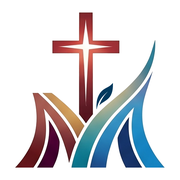
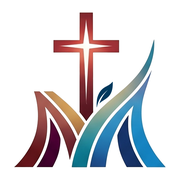
새 로고로 교체 (심볼·아이콘·교회소개 로고·공유 그림)
Claude-Session: https://claude.ai/code/session_01XdM4BBDA2kUD7tYbW4mUPe

diff --git a/index.html b/index.html
@@ -11,23 +11,23 @@
 <meta name="robots" content="index,follow,max-image-preview:large">
 <link rel="canonical" href="https://midbarchurch.co.kr/">
 <meta name="theme-color" content="#191B16">
-<link rel="icon" type="image/png" sizes="32x32" href="favicon-32.png">
-<link rel="icon" type="image/png" sizes="192x192" href="icon-192.png">
-<link rel="apple-touch-icon" href="apple-touch-icon.png">
+<link rel="icon" type="image/png" sizes="32x32" href="favicon-32.png?v=3">
+<link rel="icon" type="image/png" sizes="192x192" href="icon-192.png?v=3">
+<link rel="apple-touch-icon" href="apple-touch-icon.png?v=3">
 <meta property="og:type" content="website">
 <meta property="og:site_name" content="광야교회">
 <meta property="og:locale" content="ko_KR">
 <meta property="og:url" content="https://midbarchurch.co.kr/">
 <meta property="og:title" content="광야교회 미드바르 · 광야에 길을, 사막에 강을">
 <meta property="og:description" content="일산 풍동 광야교회 · 주일예배 오후 5시 · 금요기도회 오후 8시 30분 · 숲속마을1로 26 다인타운 4층">
-<meta property="og:image" content="https://midbarchurch.co.kr/og-image.jpg">
+<meta property="og:image" content="https://midbarchurch.co.kr/og-image.jpg?v=3">
 <meta property="og:image:width" content="1200">
 <meta property="og:image:height" content="630">
 <meta property="og:image:alt" content="광야교회 - 광야에 길을, 사막에 강을 (이사야 43:19)">
 <meta name="twitter:card" content="summary_large_image">
 <meta name="twitter:title" content="광야교회 미드바르">
 <meta name="twitter:description" content="일산 풍동 광야교회 · 주일예배 오후 5시 · 금요기도회 오후 8시 30분">
-<meta name="twitter:image" content="https://midbarchurch.co.kr/og-image.jpg">
+<meta name="twitter:image" content="https://midbarchurch.co.kr/og-image.jpg?v=3">
 <meta name="geo.region" content="KR-41">
 <meta name="geo.placename" content="경기도 고양시 일산동구 풍동">
 <meta name="geo.position" content="37.6634723;126.7990264">
@@ -49,7 +49,7 @@
    "description": "하나님을 가장 깊이 만나는 곳, 광야교회입니다. 히브리어로 광야는 '미드바르'이며 '말씀(다바르)'에서 비롯된 말입니다. 2026년 9월 18일 개척 준비기도회로 첫 현장 예배를 드렸습니다.",
    "url": "https://midbarchurch.co.kr/",
    "logo": "https://midbarchurch.co.kr/logo-mark-512.png",
-   "image": "https://midbarchurch.co.kr/og-image.jpg",
+   "image": "https://midbarchurch.co.kr/og-image.jpg?v=3",
    "address": {
     "@type": "PostalAddress",
     "streetAddress": "숲속마을1로 26 다인타운 4층",
@@ -649,7 +649,7 @@ footer .wrap{padding-block:56px 48px}
 
 <header id="hd" class="enter">
   <div class="wrap">
-    <a class="logo" href="#home" aria-label="광야교회 홈"><span class="mk"><img src="logo-mark.png" alt=""></span><b>광야교회</b><span class="en"><span>MIDBAR</span><span>CHURCH</span></span></a>
+    <a class="logo" href="#home" aria-label="광야교회 홈"><span class="mk"><img src="logo-mark.png?v=3" alt=""></span><b>광야교회</b><span class="en"><span>MIDBAR</span><span>CHURCH</span></span></a>
     <ul class="gnb" id="gnb">
       <li data-p="about"><a href="#about">교회소개</a>
         <div class="dep2"><a href="#about/greet">인사말</a><a href="#about/name">교회 이름의 뜻</a><a href="#about/mission">사명선언문</a><a href="#about/vision">MIDBAR VISION</a><a href="#about/logo">광야교회 로고</a><a href="#about/history">걸어온 길</a></div></li>
@@ -824,7 +824,7 @@ footer .wrap{padding-block:56px 48px}
     <div id="sec-about-logo" class="block block-grid">
       <div><span class="k">로고</span><h2>광야교회 로고</h2></div>
       <div class="prose">
-        <figure class="logo-fig"><img src="about/logo-full.png" alt="대한예수교장로회 광야교회 MIDBAR CHURCH 로고" loading="lazy"></figure>
+        <figure class="logo-fig"><img src="about/logo-full.png?v=3" alt="대한예수교장로회 광야교회 MIDBAR CHURCH 로고" loading="lazy"></figure>
         <p>Midbar Church의 M자를 형상화 했으며, 광야에 길을 만드시고(M의 왼쪽 붉은색 부분), 사막에 강을 만드시며(M의 오른쪽 푸른색 부분) 새 일을 행하실 하나님께서 광야교회를 불기둥(M의 왼쪽)과 구름기둥(M의 오른쪽)으로 보호해 주셔서 십자가의 은혜로 구원의 싹을 틔워가는 교회를 의미합니다.</p>
       </div>
     </div>
@@ -998,7 +998,7 @@ footer .wrap{padding-block:56px 48px}
 <footer>
   <div class="wrap">
     <div class="f-top">
-      <div class="f-brand"><span class="mk"><img src="logo-mark.png" alt="광야교회 로고"></span><div class="f-word">광야교회</div></div>
+      <div class="f-brand"><span class="mk"><img src="logo-mark.png?v=3" alt="광야교회 로고"></span><div class="f-word">광야교회</div></div>
       <div class="f-links"><a href="#about">교회소개</a><a href="#worship">예배안내</a><a href="#word">말씀</a><a href="#bulletin">주보</a><a href="#together">함께하기</a><a href="https://cafe.naver.com/midbarchurch" target="_blank" rel="noopener">네이버 카페 ↗</a><a href="https://www.youtube.com/@midbar-church-smilepastor" target="_blank" rel="noopener">유튜브 ↗</a></div>
     </div>
     <div class="f-bot">

diff --git a/admin.html b/admin.html
@@ -382,7 +382,7 @@ textarea.inp{min-height:130px;resize:vertical;line-height:1.6}
 <!-- ================= 로그인 ================= -->
 <div class="login" id="login" hidden>
   <div class="login-card">
-    <div class="mk"><img src="logo-mark.png" alt=""></div>
+    <div class="mk"><img src="logo-mark.png?v=3" alt=""></div>
     <h1>광야교회 관리자</h1>
     <p>비밀번호를 넣고 로그인하세요.</p>
     <form id="loginForm">
@@ -398,7 +398,7 @@ textarea.inp{min-height:130px;resize:vertical;line-height:1.6}
 <div class="app" id="app" hidden>
   <aside class="side">
     <div class="brand-row">
-      <div class="brand"><span class="mk"><img src="logo-mark.png" alt=""></span><span><b>광야교회 관리</b><small id="modeLabel">홈페이지 관리자</small></span></div>
+      <div class="brand"><span class="mk"><img src="logo-mark.png?v=3" alt=""></span><span><b>광야교회 관리</b><small id="modeLabel">홈페이지 관리자</small></span></div>
       <div class="m-acts"><a id="siteLinkM" href="./" target="_blank" rel="noopener" aria-label="홈페이지 보기"><svg class="icon"><use href="#i-ext"/></svg></a><button type="button" class="logout" aria-label="로그아웃"><svg class="icon"><use href="#i-out"/></svg></button></div>
     </div>
     <nav class="nav" aria-label="관리 메뉴">
